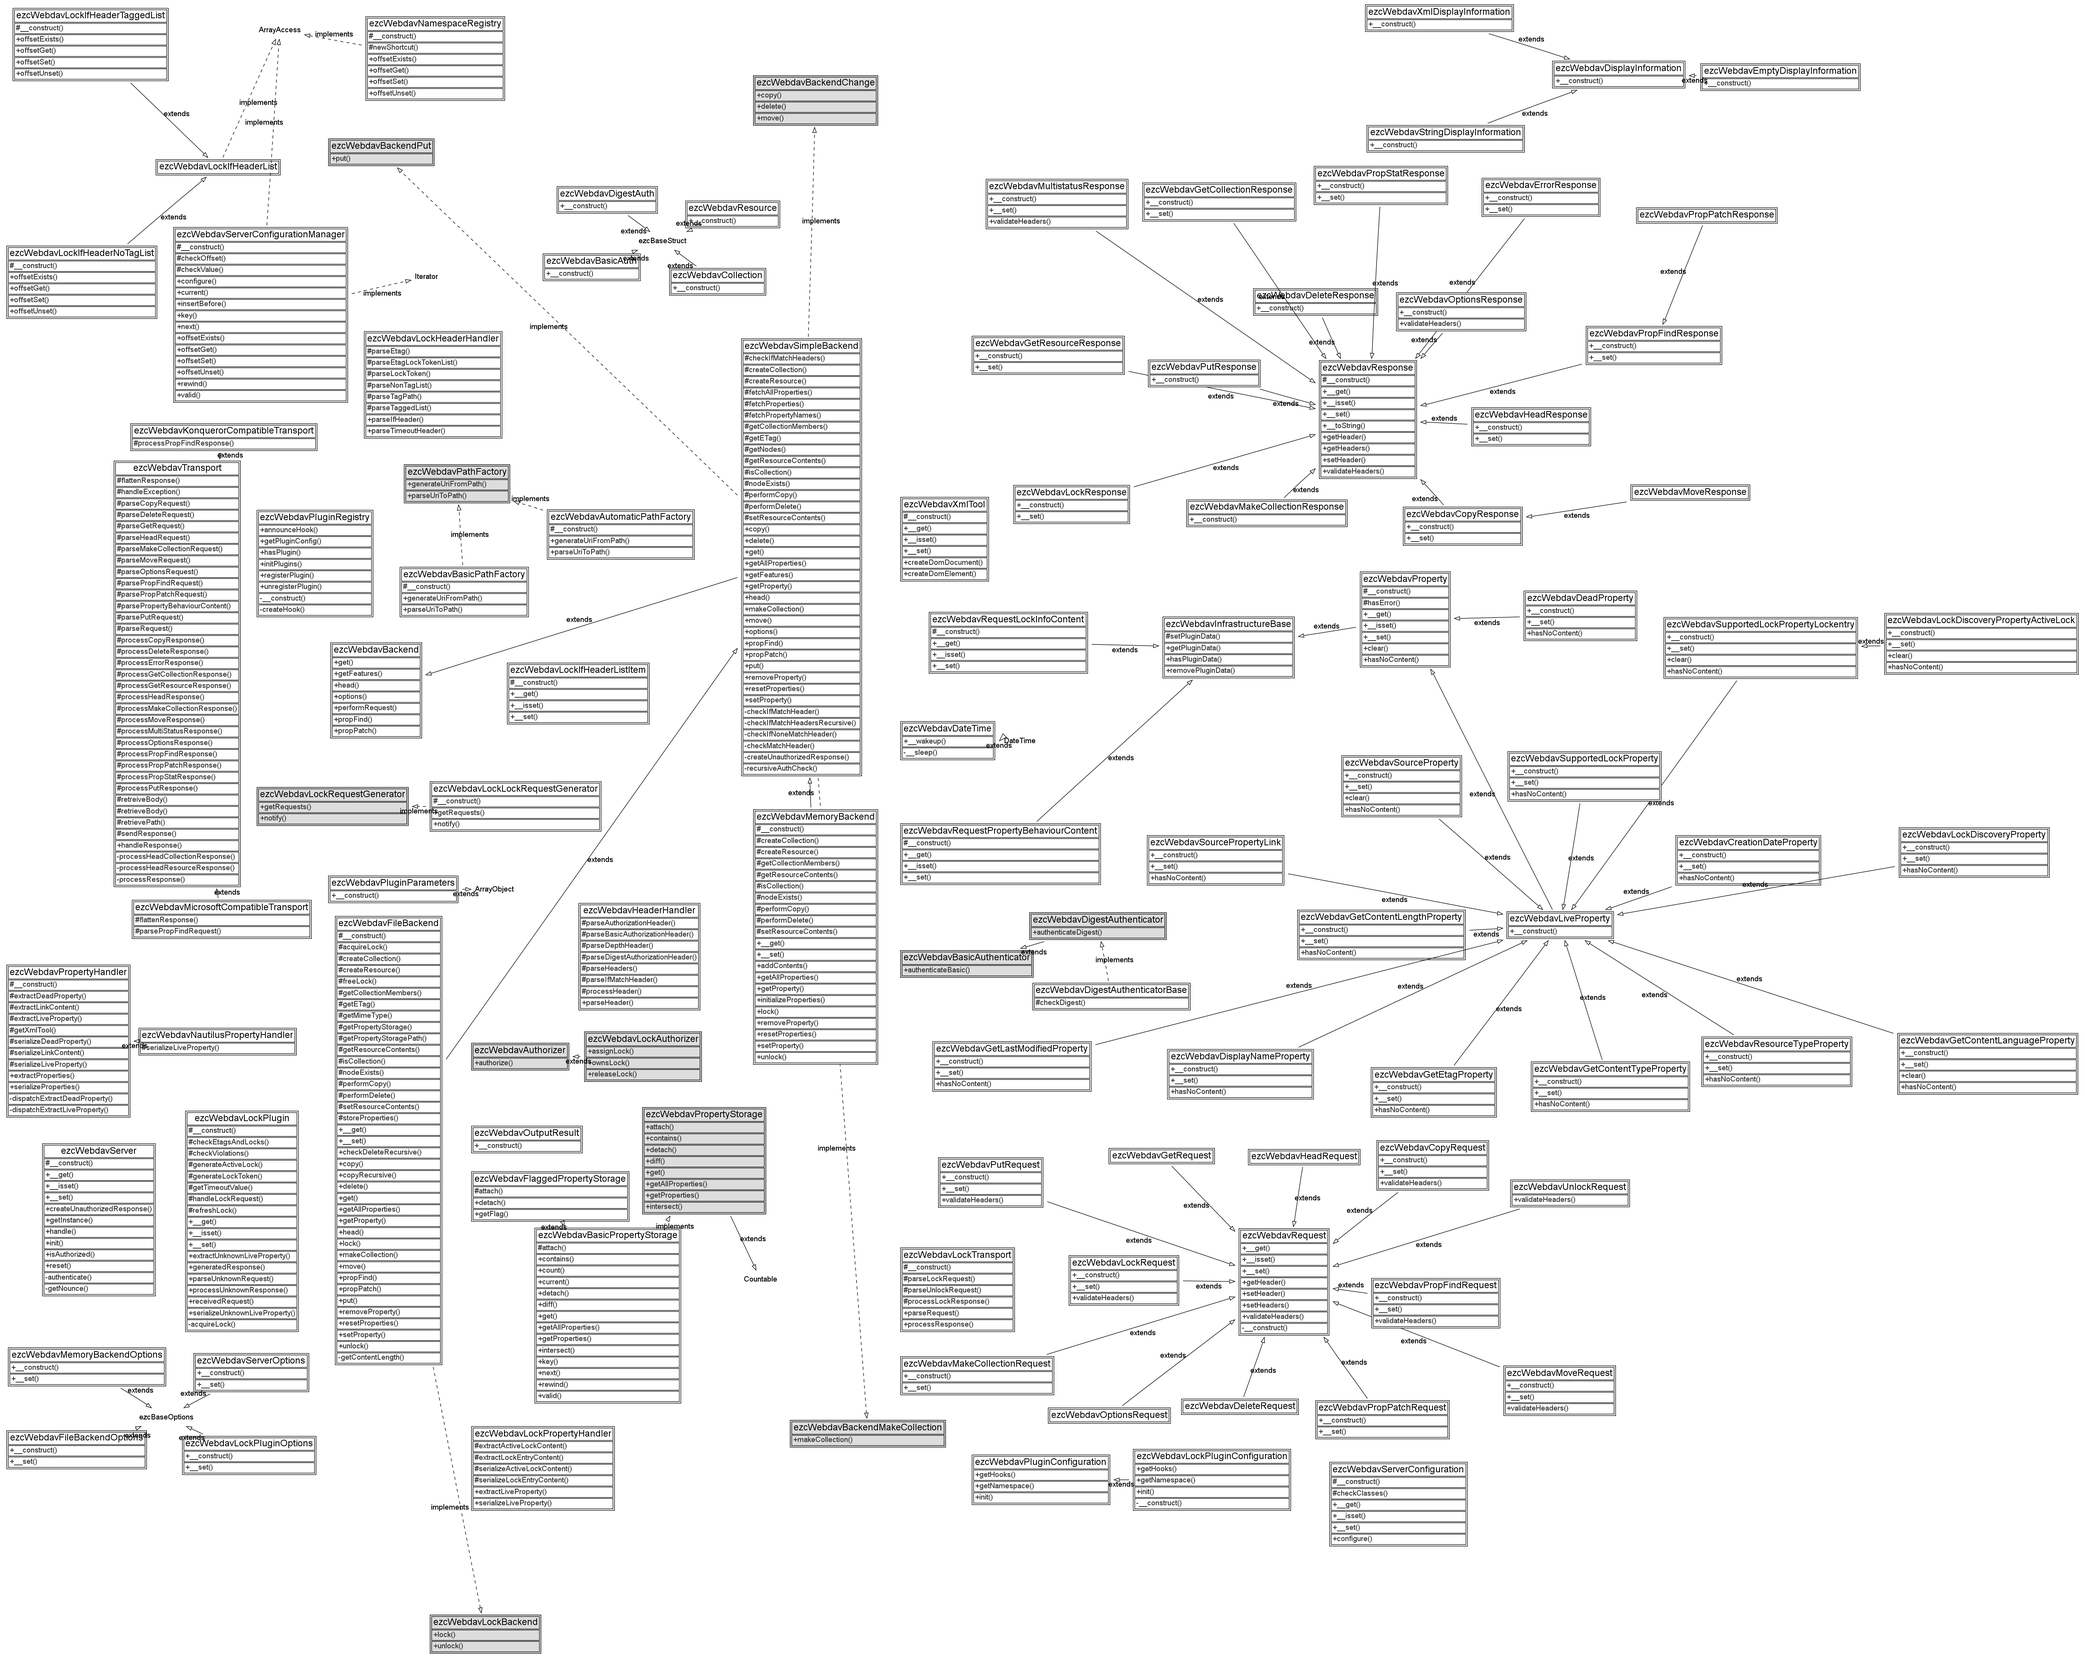
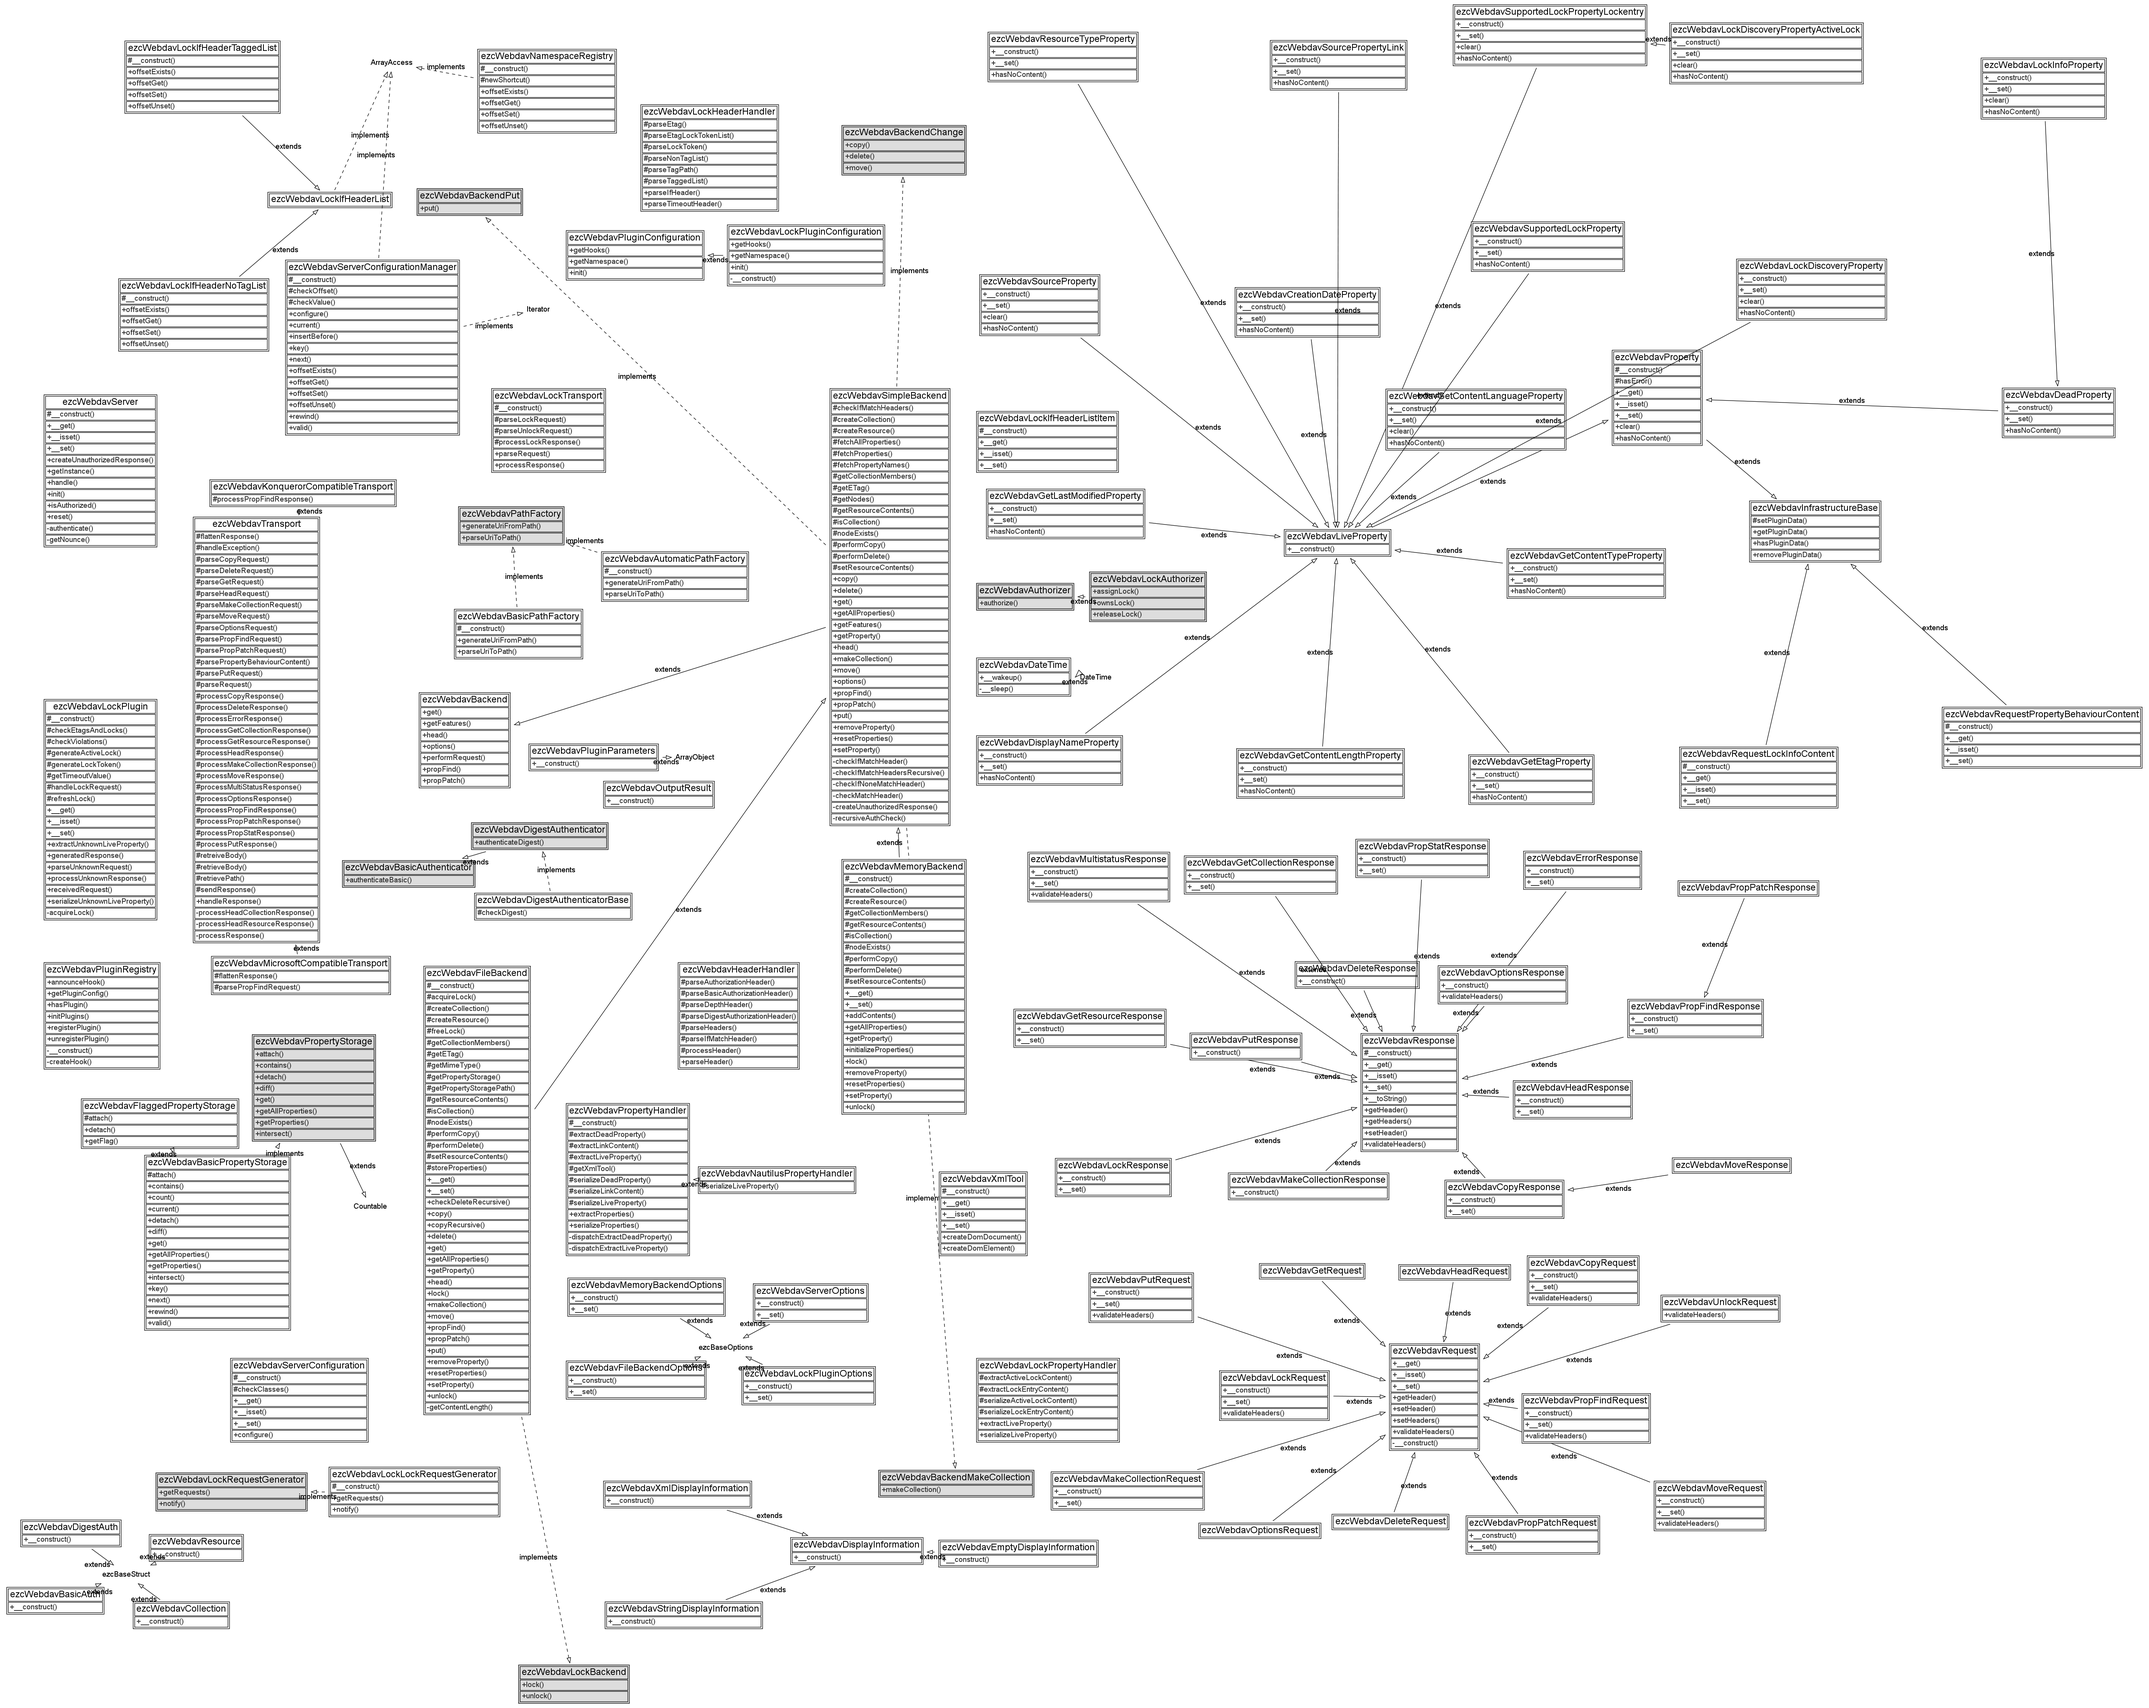
- Added property class for custom lockinfo property.

diff --git a/src/webdav_autoload.php b/src/webdav_autoload.php
@@ -40,6 +40,7 @@ return array(
     'ezcWebdavAuthorizer'                             => 'Webdav/interfaces/authorizer.php',
     'ezcWebdavBasicPropertyStorage'                   => 'Webdav/property_storages/basic.php',
     'ezcWebdavCopyResponse'                           => 'Webdav/responses/copy.php',
+    'ezcWebdavDeadProperty'                           => 'Webdav/properties/dead.php',
     'ezcWebdavDigestAuthenticator'                    => 'Webdav/interfaces/digest_authenticator.php',
     'ezcWebdavDisplayInformation'                     => 'Webdav/structs/display_information.php',
     'ezcWebdavLockBackend'                            => 'Webdav/plugins/lock/interfaces/lock_backend.php',
@@ -60,7 +61,6 @@ return array(
     'ezcWebdavCopyRequest'                            => 'Webdav/requests/copy.php',
     'ezcWebdavCreationDateProperty'                   => 'Webdav/properties/creationdate.php',
     'ezcWebdavDateTime'                               => 'Webdav/tools/date_time.php',
-    'ezcWebdavDeadProperty'                           => 'Webdav/properties/dead.php',
     'ezcWebdavDeleteRequest'                          => 'Webdav/requests/delete.php',
     'ezcWebdavDeleteResponse'                         => 'Webdav/responses/delete.php',
     'ezcWebdavDigestAuth'                             => 'Webdav/structs/digest_auth.php',
@@ -90,6 +90,7 @@ return array(
     'ezcWebdavLockIfHeaderListItem'                   => 'Webdav/plugins/lock/header/if_header_list_item.php',
     'ezcWebdavLockIfHeaderNoTagList'                  => 'Webdav/plugins/lock/header/if_header_no_tag_list.php',
     'ezcWebdavLockIfHeaderTaggedList'                 => 'Webdav/plugins/lock/header/if_header_tagged_list.php',
+    'ezcWebdavLockInfoProperty'                       => 'Webdav/plugins/lock/properties/dead_ezclock.php',
     'ezcWebdavLockLockRequestGenerator'               => 'Webdav/plugins/lock/request_generators/lock.php',
     'ezcWebdavLockPlugin'                             => 'Webdav/plugins/lock/main.php',
     'ezcWebdavLockPluginConfiguration'                => 'Webdav/plugins/lock/config.php',
